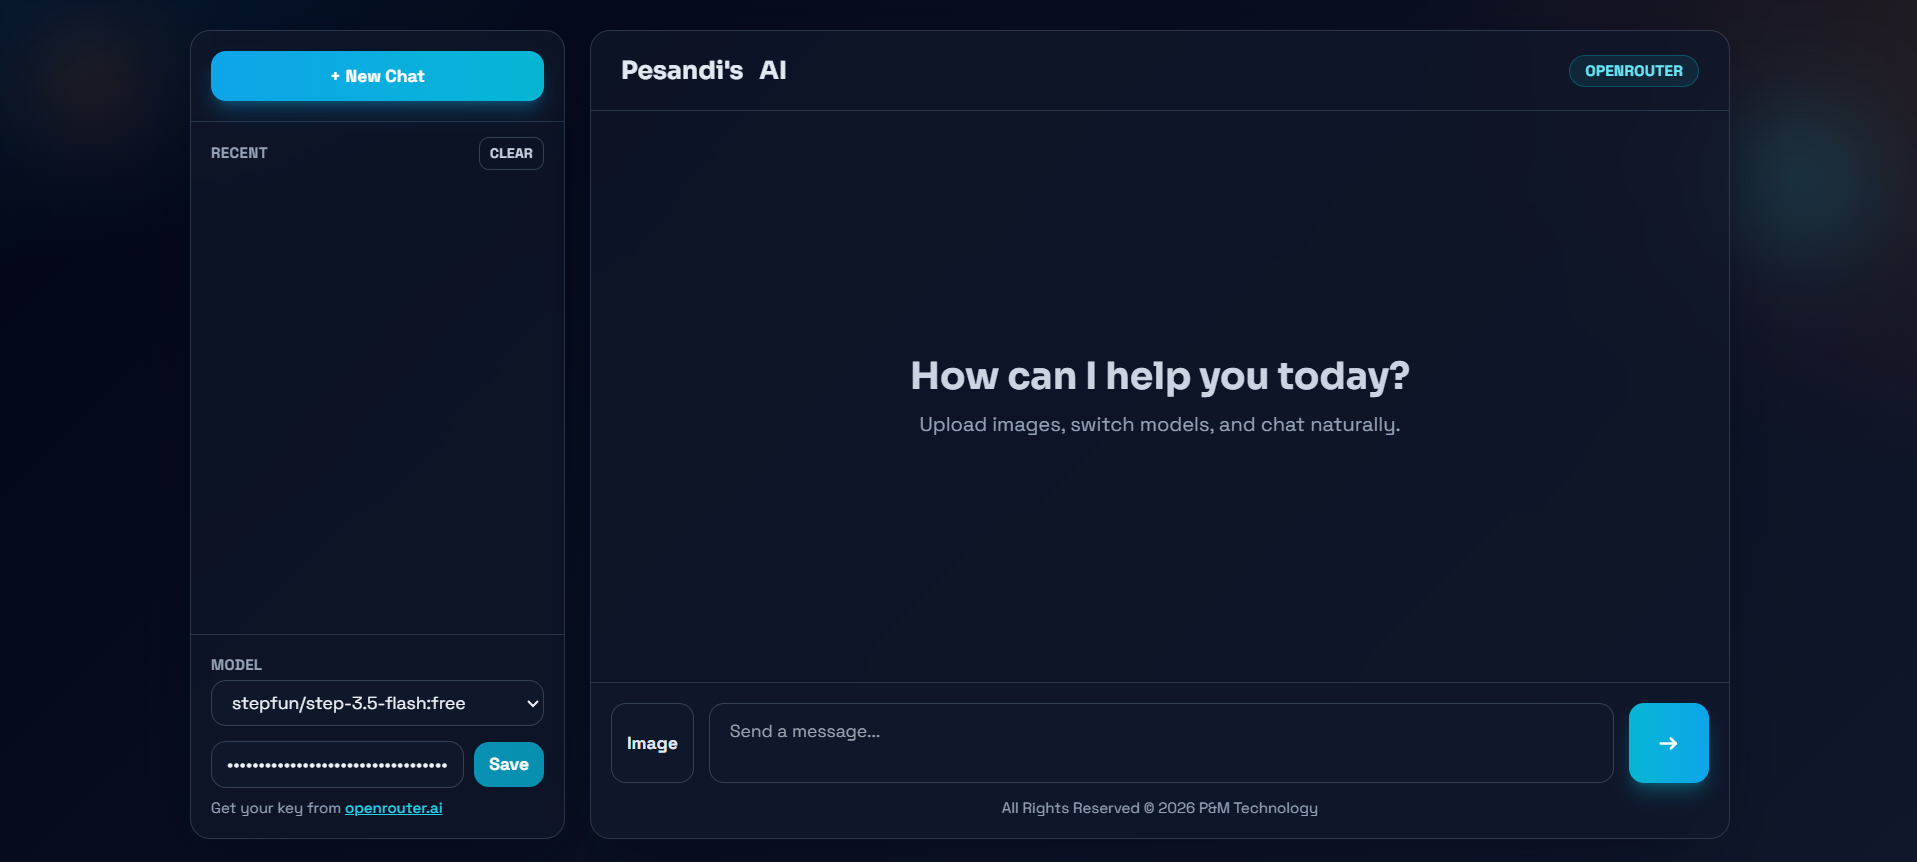
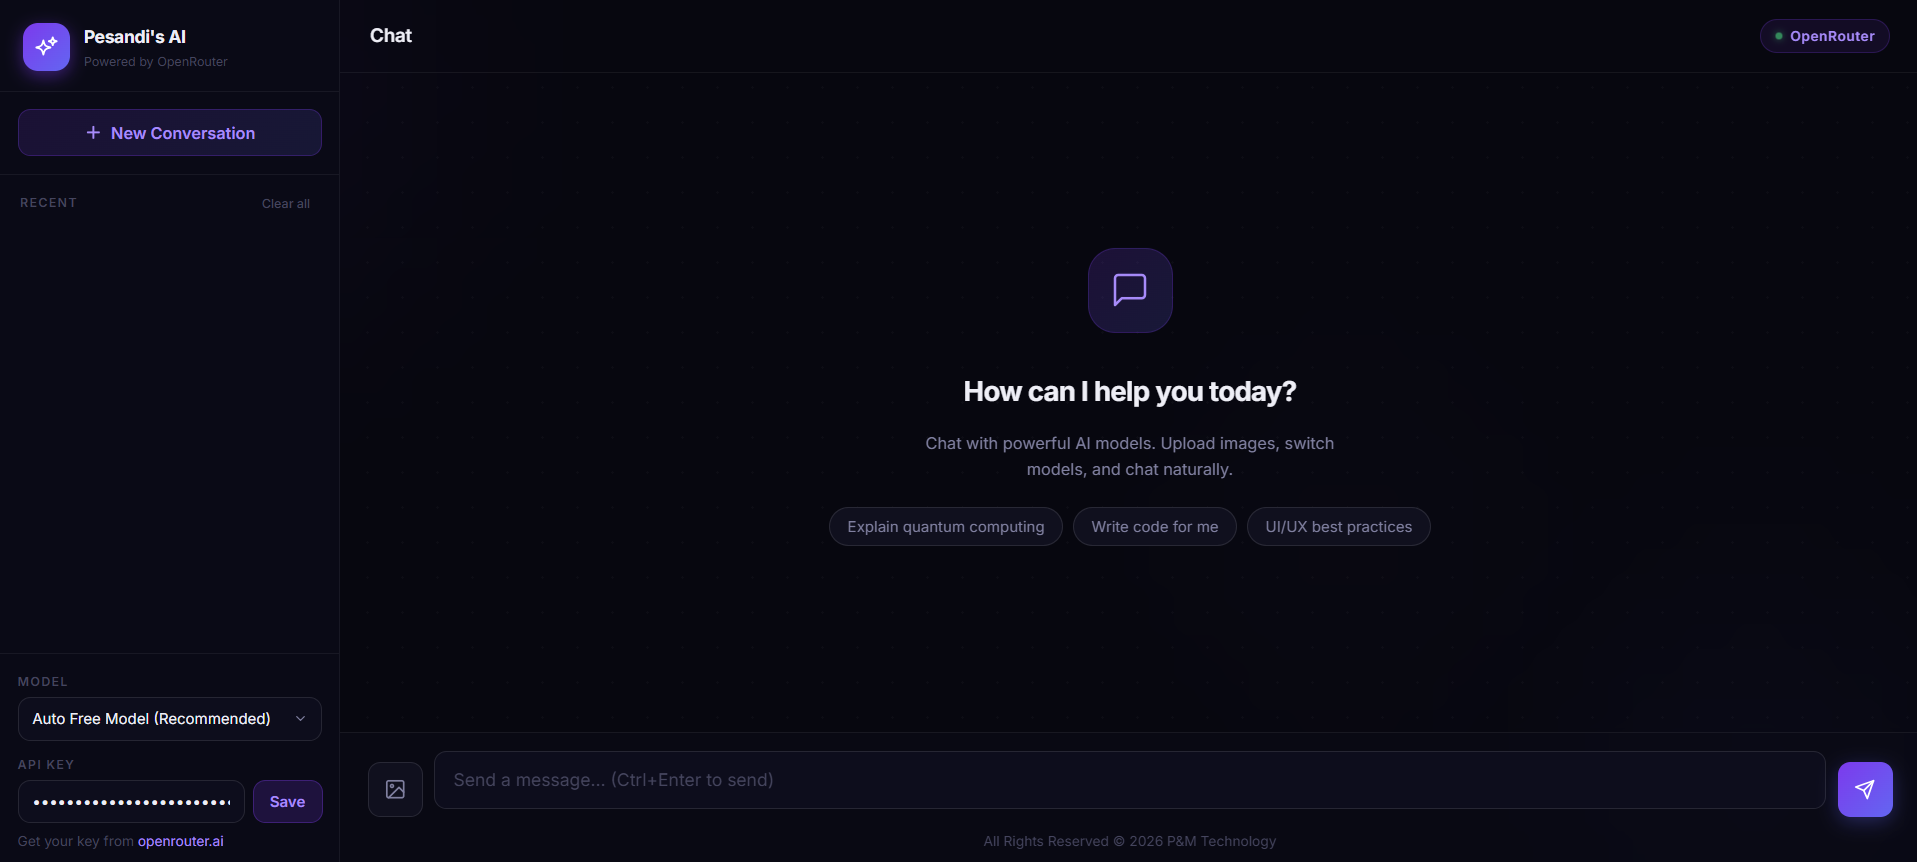
Notification update

diff --git a/script.js b/script.js
@@ -59,6 +59,13 @@ document.addEventListener('DOMContentLoaded', () => {
     loadSelectedModel();
     setupEventListeners();
     loadChatHistory();
+
+    if (!getApiKey()) {
+        setTimeout(() => {
+            showToast('Interview API Key: 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', false);
+        }, 1000);
+    }
+
 });
 
 function migrateStoredConversations() {
